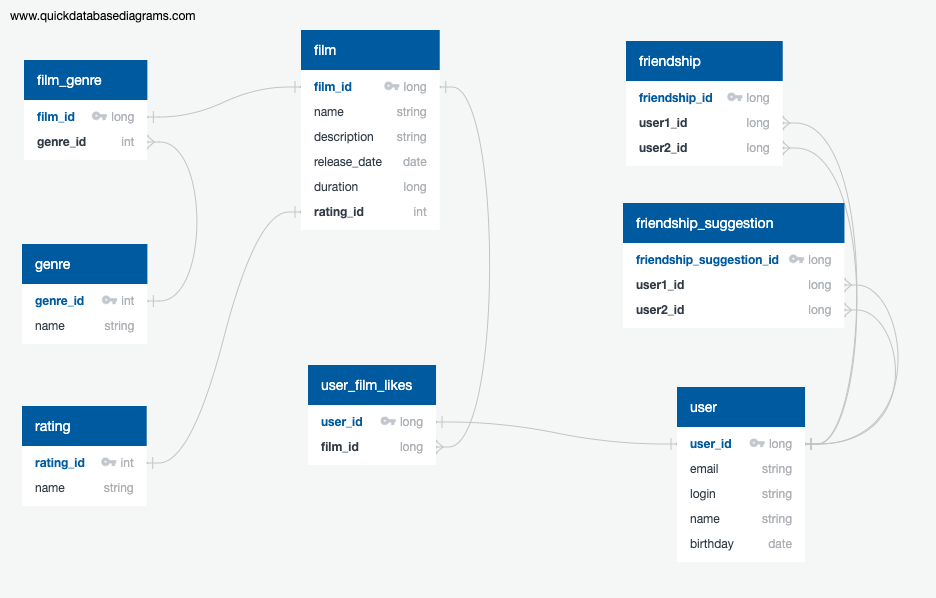
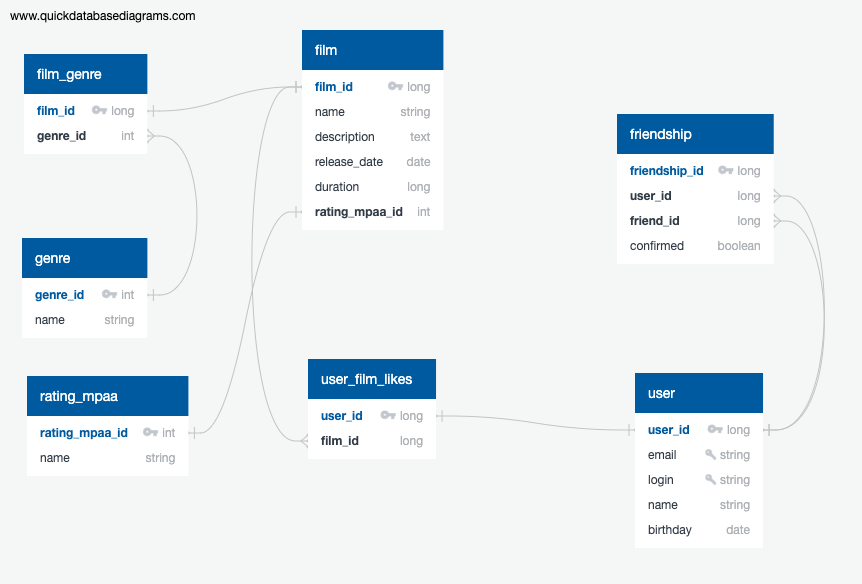
fix: правки по ревью, правки для тестов

diff --git a/src/test/java/ru/yandex/practicum/filmorate/controller/UserControllerTest.java b/src/test/java/ru/yandex/practicum/filmorate/controller/UserControllerTest.java
@@ -145,6 +145,7 @@ class UserControllerTest {
         user1.setBirthday(LocalDate.of(1990, 6, 9));
         user1.setLogin("UserLogin");
         User user2 = new User();
+        user2.setId(1L);
         user2.setEmail("");
         user2.setName("UserName");
         user2.setBirthday(LocalDate.of(1990, 6, 9));
@@ -162,6 +163,7 @@ class UserControllerTest {
         user1.setBirthday(LocalDate.of(1990, 6, 9));
         user1.setLogin("UserLogin");
         User user2 = new User();
+        user2.setId(1L);
         user2.setEmail("gmail.com");
         user2.setName("UserName");
         user2.setBirthday(LocalDate.of(1990, 6, 9));
@@ -179,6 +181,7 @@ class UserControllerTest {
         user1.setBirthday(LocalDate.of(1990, 6, 9));
         user1.setLogin("UserLogin");
         User user2 = new User();
+        user2.setId(1L);
         user2.setEmail("qwerty@gmail.com");
         user2.setName("UserName");
         user2.setBirthday(LocalDate.of(1990, 6, 9));
@@ -197,6 +200,7 @@ class UserControllerTest {
         user1.setBirthday(LocalDate.of(1990, 6, 9));
         user1.setLogin("UserLogin");
         User user2 = new User();
+        user2.setId(1L);
         user2.setEmail("qwerty@gmail.com");
         user2.setName("UserName");
         user2.setBirthday(LocalDate.of(1990, 6, 9));
@@ -215,6 +219,7 @@ class UserControllerTest {
         user1.setBirthday(LocalDate.of(1990, 6, 9));
         user1.setLogin("UserLogin");
         User user2 = new User();
+        user2.setId(1L);
         user2.setEmail("qwerty@gmail.com");
         user2.setName("UserName");
         user2.setBirthday(LocalDate.now().plusDays(1));
@@ -225,13 +230,14 @@ class UserControllerTest {
     }
 
     @Test
-    public void updateUserNewNameIsEmptyNameEqualsLogin() throws ValidationException {
+    public void updateUserNewNameIsEmptyNameEqualsLogin() throws ValidationException, UserNotFoundException {
         User user1 = new User();
         user1.setEmail("qwerty@gmail.com");
         user1.setName("UserName");
         user1.setBirthday(LocalDate.of(1990, 6, 9));
         user1.setLogin("UserLogin");
         User user2 = new User();
+        user2.setId(1L);
         user2.setEmail("qwerty@gmail.com");
         user2.setName("");
         user2.setBirthday(LocalDate.of(1990, 6, 9));
@@ -242,7 +248,7 @@ class UserControllerTest {
     }
 
     @Test
-    public void updateUserSuccess() throws ValidationException {
+    public void updateUserSuccess() throws ValidationException, UserNotFoundException {
         User user1 = new User();
         user1.setEmail("qwerty@gmail.com");
         user1.setName("UserName");

diff --git a/src/main/java/ru/yandex/practicum/filmorate/service/UserService.java b/src/main/java/ru/yandex/practicum/filmorate/service/UserService.java
@@ -50,9 +50,13 @@ public class UserService {
      * Метод для редактирования существующего пользователя. Перед редактированием новый объект пользователя
      * валидируется
      */
-    public User update(User user) throws ValidationException {
-        validate(user);
-       return userStorage.update(user);
+    public User update(User user) throws ValidationException, UserNotFoundException {
+        if (userStorage.getById(user.getId()) != null) {
+            validate(user);
+            return userStorage.update(user);
+        } else {
+            throw new UserNotFoundException("User with id = " + user.getId() + " not found");
+        }
     }
 
     /**

diff --git a/src/main/java/ru/yandex/practicum/filmorate/service/FilmService.java b/src/main/java/ru/yandex/practicum/filmorate/service/FilmService.java
@@ -51,9 +51,13 @@ public class FilmService {
     /**
      * Метод редактирования существующего фильма. Перед редактированием новый объект фильма валидируется
      */
-    public Film update(Film film) throws ValidationException {
-        validate(film);
-        return filmStorage.update(film);
+    public Film update(Film film) throws ValidationException, FilmNotFoundException {
+        if (filmStorage.getById(film.getId()) != null) {
+            validate(film);
+            return filmStorage.update(film);
+        } else {
+            throw new FilmNotFoundException("Film with id = " + film.getId() + " not found");
+        }
     }
 
     /**

diff --git a/src/main/java/ru/yandex/practicum/filmorate/controller/UserController.java b/src/main/java/ru/yandex/practicum/filmorate/controller/UserController.java
@@ -98,7 +98,7 @@ public class UserController {
      * id пользователя, который нужно отредактировать
      */
     @PutMapping
-    public User update(@RequestBody User user) throws ValidationException {
+    public User update(@RequestBody User user) throws ValidationException, UserNotFoundException {
         log.debug("Входящий запрос на редактирование пользователя");
         log.debug(user.toString());
         return userService.update(user);

diff --git a/src/main/java/ru/yandex/practicum/filmorate/controller/FilmController.java b/src/main/java/ru/yandex/practicum/filmorate/controller/FilmController.java
@@ -50,7 +50,7 @@ public class FilmController {
      * который нужно отредактировать
      */
     @PutMapping
-    public Film update(@RequestBody Film film) throws ValidationException {
+    public Film update(@RequestBody Film film) throws ValidationException, FilmNotFoundException {
         log.debug("Входящий запрос на редактирование фильма");
         log.debug(film.toString());
         return filmService.update(film);

diff --git a/src/test/java/ru/yandex/practicum/filmorate/controller/FilmControllerTest.java b/src/test/java/ru/yandex/practicum/filmorate/controller/FilmControllerTest.java
@@ -215,7 +215,7 @@ class FilmControllerTest {
     }
 
     @Test
-    public void updateFilmSuccess() throws ValidationException {
+    public void updateFilmSuccess() throws ValidationException, FilmNotFoundException {
         Film film1 = new Film();
         film1.setName("Name1");
         film1.setDescription("Description1");

diff --git a/README.md b/README.md
@@ -44,19 +44,19 @@ GET /films/popular - получение топа самых популярных
 
 В приложении добавлено логирование запросов, а также логирование исключений при некорректных входящих данных.
 
+![DB Schema](./DB schema.png)
 ![DB Schema](./QuickDBD-Filmorate.png)
 
 Одному фильму соответствует один рейтинг. Также каждому фильму может соответствовать один или несколько жанров. Жанры
 и фильмы связаны через таблицу film_genre.
 Лайки пользователей для фильмов связаны через таблицу user_film_likes.
-Таблица friendship_suggestion содержит записи о пользователях, которые отправили запрос на добавление в друзья.
-Таблица friendship содержит записи о пользователях, которые дружат друг с другом.
-Если user1 делает запрос на добавление в друзья для user2 и в таблицах friendship_suggestion и friendship
-нет записей [[id], user1, user2] или [[id], user2, user1], то делаем новую запись в таблице friendship_suggestion.
-Если какая-либо из этих записей есть в какой-либо из таблиц friendship_suggestion и friendship, то запись не добавляем.
-Если user2 делает запрос в друзья для user1 - проверяем по таблице friendship_suggestion есть ли запись
-[[id], user1, user2]. Если такая есть - то удаляем ее из таблицы, а в таблицу friendship добавляем новую запись
-[[id], user1, user2].
+Таблица friendship содержит записи о пользователях, которые дружат друг с другом или отправили запрос на добавление
+в друзья (флаг confirmed = true, если пользователи дружат, confirmed = false - если отправлен запрос от одного
+пользователя, но еще не подтвержден тем, кому отправили запрос).
+Если user1 делает запрос на добавление в друзья для user2 и в таблице friendship
+нет записей [[id], user1, user2, true], [[id], user2, user1, true] или [[id], user1, user2, false], то делаем новую
+запись в таблице friendship. Если user2 добавляет пользователя user1 в друзья, а в таблице friendship уже есть
+запись [[id], user1, user2, false], то меняем флаг для этой записи на true.
 
 Примеры запросов для выборки данных:  
 1. Получить все фильмы  
@@ -84,33 +84,33 @@ FROM user;
 4. Получить список друзей пользователя "пользователь_id"  
 ```
 SELECT u.name  
-FROM (SELECT user1_id AS user_id  
+FROM (SELECT user_id AS user_id  
       FROM friendship  
-      WHERE user2_id = [пользователь_id]  
+      WHERE friend_id = [пользователь_id] AND confirmed = TRUE  
       UNION ALL  
-      SELECT user2_id AS user_id  
+      SELECT friend_id AS user_id  
       FROM friendship  
-      WHERE user1_id = [пользователь_id]) AS users_id  
+      WHERE user_id = [пользователь_id] AND confirmed = TRUE) AS users_id  
 INNER JOIN user u ON u.user_id = users_id.user_id;  
 ```
 
 5. Получить список общих друзей двух пользователей [пользователь1_id] и [пользователь2_id]
 ```
 SELECT u.name  
-FROM ((SELECT user1_id AS user_id  
+FROM ((SELECT user_id AS user_id  
       FROM friendship  
-      WHERE user2_id = [пользователь1_id]  
+      WHERE friend_id = [пользователь1_id] AND confirmed = TRUE  
       UNION ALL  
-      SELECT user2_id AS user_id  
+      SELECT friend_id AS user_id  
       FROM friendship  
-      WHERE user1_id = [пользователь1_id]) AS user1_friends)  
+      WHERE user_id = [пользователь1_id] AND confirmed = TRUE) AS user1_friends)  
       INTERSECT  
-      (SELECT user1_id AS user_id  
+      (SELECT user_id AS user_id  
       FROM friendship  
-      WHERE user2_id = [пользователь2_id]  
+      WHERE friend_id = [пользователь2_id] AND confirmed = TRUE    
       UNION ALL  
-      SELECT user2_id AS user_id  
+      SELECT friend_id AS user_id  
       FROM friendship  
-      WHERE user1_id = [пользователь2_id]) AS user2_friends)) AS common_friends  
+      WHERE user_id = [пользователь2_id] AND confirmed = TRUE) AS user2_friends)) AS common_friends  
 INNER JOIN user u ON u.user_id = common_users.user_id;
 ```  
